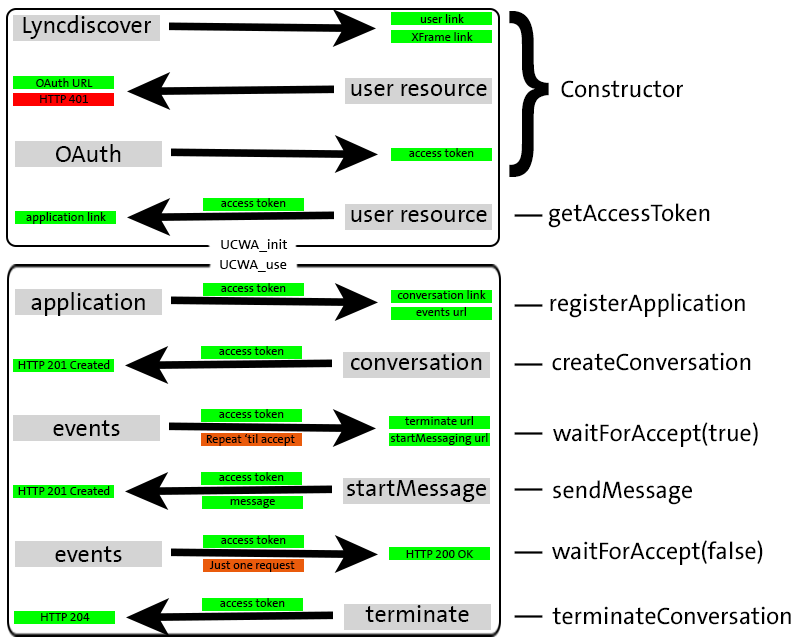
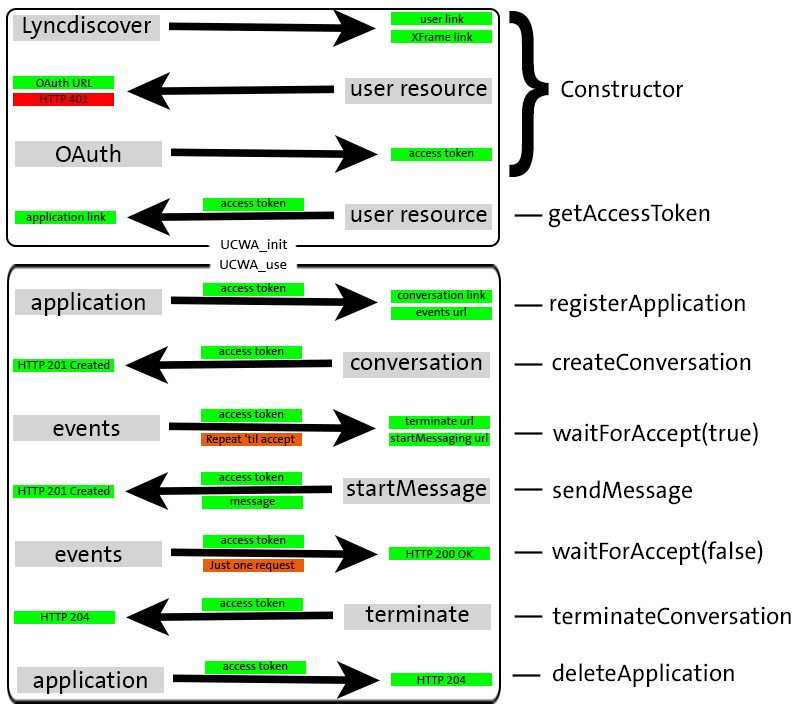
Added "deleteApplication"

diff --git a/lib/modules/use.ucwa.class.php b/lib/modules/use.ucwa.class.php
@@ -242,6 +242,41 @@ class UCWA_use extends ucwa_base {
 	}
 	
 	/*
+	 *	(bool) deleteApplication()
+	 *	######################################
+	 *
+	 *	Deletes the current application
+	*/
+	public static function deleteApplication() {
+		$curl = curl_init();
+		curl_setopt_array($curl, array(
+			CURLOPT_HEADER => false,
+			CURLOPT_RETURNTRANSFER => true,
+			CURLOPT_SSL_VERIFYPEER => false,
+			CURLOPT_SSL_VERIFYHOST => false,
+			CURLOPT_URL => self::$ucwa_baseserver . self::$ucwa_path_application_fq,
+			CURLOPT_REFERER => self::$ucwa_baseserver . self::$ucwa_path_xframe,
+			CURLOPT_CUSTOMREQUEST => "DELETE",
+			CURLOPT_HTTPHEADER => array(
+				"Authorization: Bearer " . self::$ucwa_accesstoken,
+				"X-Ms-Origin: " . self::$ucwa_fqdn,
+			),
+			CURLOPT_TIMEOUT => 15,
+		));
+		
+		$response = curl_exec($curl);
+		$status = curl_getinfo($curl);
+		curl_close($curl);
+		
+		if ($status["http_code"] == 204) {
+			return true;
+		} else {
+			self::_error("Can't delete application for Skype UCWA", $status);	
+			return false;		
+		}
+	}
+	
+	/*
 	 *	(bool) sendMessage($msg)
 	 *	######################################
 	 *

diff --git a/examples/simple/simple_example.php b/examples/simple/simple_example.php
@@ -74,7 +74,15 @@ $im->sendMessage( "Just a test..." ) OR die( "Couldn't send <just a test...>." )
  * Terminate conversation
 */
 // If you have nothing more to say, you should
-// terminate the conversation.
+// terminate the conversation. But first, you have to wait
+// 'til the message arrives.
+$im->waitForAccept( false );
 $im->terminateConversation() OR die( "Couldn't terminate conversation" );
 
+/*
+ * Delete Application
+*/
+// To avoid error 410 GONE (TooManyApplications) you
+// should delete your application, after everything is done.
+$im->deleteApplication() OR die( "Couldn't delete application" );
 ?>

diff --git a/examples/advanced/advanced_example_send.php b/examples/advanced/advanced_example_send.php
@@ -71,7 +71,13 @@ if ( count( $v_skype_msgs ) < 2 ) {
 /*
  * Terminate conversation
 */
+$im->waitForAccept( false );
 $im->terminateConversation() OR die( "Couldn't terminate conversation" );
+
+/*
+ * Delete Application
+*/
+$im->deleteApplication() OR die( "Couldn't delete application" );
 
 // ##################################################################################################
 

diff --git a/examples/advanced/advanced_example_init.php b/examples/advanced/advanced_example_init.php
@@ -53,7 +53,7 @@ $send[] = array(
 		"subject" => "First receiver!",
 		"msg" => array(
 			"Message 1!",
-			"Message 2 ;)"
+			"Message 2"
 		),
 	),
 );
